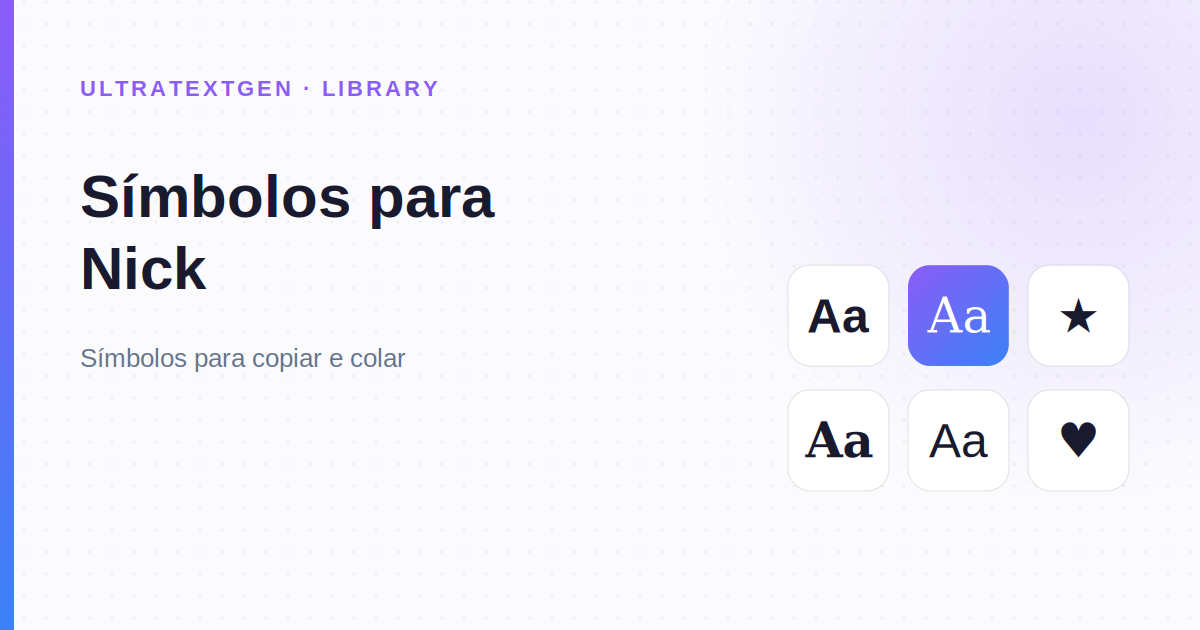
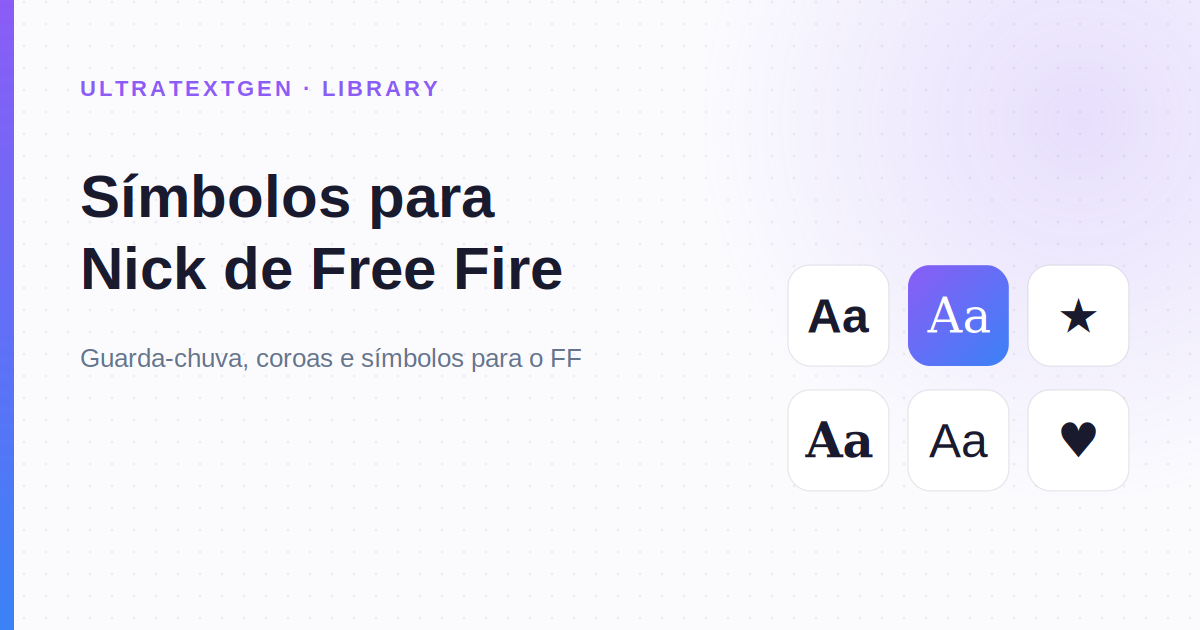
fix(pt): sharpen simbolos-para-nick's Free Fire targeting
pt/library/simbolos-para-nick/ is already the hreflang-registered PT
translation of library/free-fire-name-symbols (its symbol selection —
the guarda-chuva ꧁꧂ frame — is Free-Fire-flavored throughout), but its
title/H1 had been generalized to "Símbolos para Nick" (any game). Live
GSC data shows "simbolos ff" already landing on this page at ~position
9.6 with 0 clicks — the page is ranking but not converting on its own
best-matched query.

Sharpens title/meta/H1/JSON-LD to lead with Free Fire (embedding the
rendered ꧁꧂ ♛ ★ symbols in the title, per the site's own proven CTR-fix
pattern), while keeping the existing ML/Roblox/bio mentions as secondary
content rather than stripping them. Repoints the page's generator CTA
from the lower-traffic pt/usecase/nick-free-fire/ to the dominant
pt/usecase/nick-ff/ (1,765 impressions vs. near-zero).

No new URL — this is a retarget of the existing hreflang-registered page,
not a hub split into two pages, since a second PT page at this translation
slot would risk exactly the fragmentation CLAUDE.md's own cannibalization
rules warn against.

Claude-Session: https://claude.ai/code/session_01UhKAUX8aKnBNWZJwAnwFUo

Changed region(s): [[0.0617, 0.5429, 0.4933, 0.6032], [0.185, 0.3921, 0.4933, 0.4825]]

diff --git a/pt/library/simbolos-para-nick/index.html b/pt/library/simbolos-para-nick/index.html
@@ -13,8 +13,8 @@
 <meta charset="UTF-8">
 <meta name="viewport" content="width=device-width, initial-scale=1.0">
 
-<title>Símbolos para Nick: Copiar Símbolos para Free Fire e Jogos</title>
-<meta name="description" content="Símbolos para nick de FF e outros jogos, prontos para copiar e colar. Guarda-chuva ꧁꧂, coroas, katakana, estrelas, espadas e colchetes — clique para copiar. Grátis, sem app.">
+<title>Símbolos para Nick de Free Fire (FF): Copiar ꧁꧂ ♛ ★</title>
+<meta name="description" content="Símbolos para nick de Free Fire (FF) prontos para copiar e colar: guarda-chuva ꧁꧂, coroas ♛, katakana メ 彡 e estrelas ★. Também funcionam em ML, Roblox e bios — clique para copiar. Grátis, sem app.">
 
 <link rel="canonical" href="https://ultratextgen.com/pt/library/simbolos-para-nick/">
 <link rel="alternate" hreflang="en" href="https://ultratextgen.com/library/free-fire-name-symbols/">
@@ -26,10 +26,10 @@
 
 <meta name="twitter:card" content="summary_large_image">
 <meta name="twitter:image" content="https://ultratextgen.com/assets/og/pt-library-simbolos-para-nick.png">
-<meta name="twitter:title" content="Símbolos para Nick: Copiar Símbolos para Free Fire e Jogos">
-<meta name="twitter:description" content="Símbolos para nick de FF prontos para copiar e colar — guarda-chuva ꧁꧂, coroas, katakana, estrelas e espadas.">
-<meta property="og:title" content="Símbolos para Nick: Copiar Símbolos para Free Fire e Jogos">
-<meta property="og:description" content="Símbolos para nick de FF prontos para copiar e colar — guarda-chuva ꧁꧂, coroas, katakana, estrelas e espadas.">
+<meta name="twitter:title" content="Símbolos para Nick de Free Fire (FF): Copiar ꧁꧂ ♛ ★">
+<meta name="twitter:description" content="Símbolos para nick de Free Fire prontos para copiar e colar — guarda-chuva ꧁꧂, coroas, katakana, estrelas e espadas.">
+<meta property="og:title" content="Símbolos para Nick de Free Fire (FF): Copiar ꧁꧂ ♛ ★">
+<meta property="og:description" content="Símbolos para nick de Free Fire prontos para copiar e colar — guarda-chuva ꧁꧂, coroas, katakana, estrelas e espadas.">
 <meta property="og:type" content="article">
 <meta property="og:url" content="https://ultratextgen.com/pt/library/simbolos-para-nick/">
 <meta property="og:image" content="https://ultratextgen.com/assets/og/pt-library-simbolos-para-nick.png">
@@ -95,7 +95,7 @@
   "@type": "BreadcrumbList",
   "itemListElement": [
     { "@type": "ListItem", "position": 1, "name": "Início", "item": "https://ultratextgen.com/pt/" },
-    { "@type": "ListItem", "position": 2, "name": "Símbolos para Nick", "item": "https://ultratextgen.com/pt/library/simbolos-para-nick/" }
+    { "@type": "ListItem", "position": 2, "name": "Símbolos para Nick de Free Fire", "item": "https://ultratextgen.com/pt/library/simbolos-para-nick/" }
   ]
 }
 </script>
@@ -103,13 +103,13 @@
 {
   "@context": "https://schema.org",
   "@type": "WebApplication",
-  "name": "Símbolos para Nick",
-  "alternateName": ["Símbolos para Nick", "Símbolos para Nick FF", "Símbolos Free Fire", "Símbolos para Copiar"],
+  "name": "Símbolos para Nick de Free Fire",
+  "alternateName": ["Símbolos para Nick de Free Fire", "Símbolos para Nick FF", "Símbolos Free Fire", "Símbolos para Nick", "Símbolos para Copiar"],
   "url": "https://ultratextgen.com/pt/library/simbolos-para-nick/",
   "applicationCategory": "UtilityApplication",
   "operatingSystem": "All",
   "offers": { "@type": "Offer", "price": "0", "priceCurrency": "USD" },
-  "description": "Coleção de símbolos Unicode para nick de Free Fire e outros jogos — guarda-chuva, coroas, katakana, estrelas, espadas e colchetes, prontos para copiar e colar.",
+  "description": "Coleção de símbolos Unicode para nick de Free Fire — guarda-chuva, coroas, katakana, estrelas, espadas e colchetes, prontos para copiar e colar. Também funcionam em Mobile Legends, Roblox e bios.",
   "browserRequirements": "Requires JavaScript. Works in all modern browsers."
 }
 </script>
@@ -125,21 +125,21 @@
 <nav class="breadcrumbs" aria-label="Breadcrumb">
   <a href="/pt/">Início</a>
   <span class="breadcrumb-separator">›</span>
-  <span class="breadcrumb-current">Símbolos para Nick</span>
+  <span class="breadcrumb-current">Símbolos para Nick de Free Fire</span>
 </nav>
 
 <!-- HERO -->
 <section class="hero">
   <div class="hero-inner">
-    <h1 class="hero-headline">Símbolos para Nick</h1>
-    <p class="hero-tagline">Coleção de símbolos Unicode para o nick de Free Fire e outros jogos. Guarda-chuva ꧁꧂, coroas, katakana, estrelas e espadas — clique em qualquer símbolo para copiar na hora.</p>
+    <h1 class="hero-headline">Símbolos para Nick de Free Fire</h1>
+    <p class="hero-tagline">Guarda-chuva ꧁꧂, coroas, katakana, estrelas e espadas prontos para copiar e colar no nick do FF. Clique em qualquer símbolo para copiar na hora.</p>
   </div>
 </section>
 
 <!-- INTRO -->
 <section class="editorial-section">
   <div class="editorial-block">
-    <p>Símbolos para nick são caracteres Unicode usados para deixar o <strong>nome no jogo</strong> mais estiloso — no Free Fire, Mobile Legends, Roblox e também na bio e no nome de Instagram, TikTok, WhatsApp e Discord. Abaixo tem uma coleção de símbolos pronta para copiar e colar — guarda-chuva, coroas, katakana, estrelas, espadas e colchetes. Quer transformar as letras do nome em fonte estilosa também? Use o <a href="/pt/usecase/nick-free-fire/">gerador de nick de Free Fire</a> e emoldure com os símbolos daqui.</p>
+    <p>Símbolos para nick de Free Fire são caracteres Unicode usados para deixar o <strong>nome no jogo</strong> mais estiloso — o guarda-chuva ꧁꧂ é o mais clássico, mas tem coroa, katakana, estrela e espada também. Abaixo tem a coleção completa, pronta para copiar e colar. Os mesmos símbolos funcionam em Mobile Legends, Roblox e também na bio e no nome de Instagram, TikTok, WhatsApp e Discord. Quer transformar as letras do nome em fonte estilosa também? Use o <a href="/pt/usecase/nick-ff/">gerador de nick de Free Fire</a> e emoldure com os símbolos daqui.</p>
   </div>
 </section>
 
@@ -274,7 +274,7 @@
   <div class="cta-card">
     <h3>Faça um nick de Free Fire completo</h3>
     <p>Transforme seu nome em mais de 100 estilos Unicode — grátis e na hora. Combine com os símbolos daqui para um nick que se destaca.</p>
-    <a href="/pt/usecase/nick-free-fire/" class="cta-btn">Abrir o Gerador de Nick →</a>
+    <a href="/pt/usecase/nick-ff/" class="cta-btn">Abrir o Gerador de Nick →</a>
   </div>
 </section>
 
@@ -290,7 +290,7 @@
   </details>
   <details class="faq-item">
     <summary class="faq-question">Como usar os símbolos para nick de FF?</summary>
-    <p class="faq-answer">Clique em qualquer símbolo desta página para copiá-lo, depois cole no campo de nick do jogo — normalmente um no começo e outro no fim do nome. Para transformar as letras do nome em fonte estilosa, use o <a href="/pt/usecase/nick-free-fire/">gerador de nick</a> e emoldure com os símbolos daqui.</p>
+    <p class="faq-answer">Clique em qualquer símbolo desta página para copiá-lo, depois cole no campo de nick do jogo — normalmente um no começo e outro no fim do nome. Para transformar as letras do nome em fonte estilosa, use o <a href="/pt/usecase/nick-ff/">gerador de nick</a> e emoldure com os símbolos daqui.</p>
   </details>
   <details class="faq-item">
     <summary class="faq-question">Onde posso colar esses símbolos?</summary>
@@ -320,7 +320,7 @@
 <section class="editorial-section">
   <span class="article-section-label">Páginas Relacionadas</span>
   <div class="compare-grid">
-    <a href="/pt/usecase/nick-free-fire/" class="compare-card variant-muted u-no-underline">
+    <a href="/pt/usecase/nick-ff/" class="compare-card variant-muted u-no-underline">
       <h4>Nick Free Fire</h4>
       <p>Gerador de nick com fontes, símbolos e molduras prontas para o FF.</p>
     </a>

diff --git a/scripts/generate-site-art.py b/scripts/generate-site-art.py
@@ -1209,7 +1209,7 @@ PAGES = {
   # ---- localized game-nickname generators & symbol libraries (new markets) ----
   "pt-usecase-nick-free-fire": ("Nick Free Fire", "Gerador de nomes e símbolos para Free Fire", m_trophy, K_USE),
   "pt-espaco-invisivel": ("Espaço Invisível", "Caractere em branco para copiar", m_block, K_LIB),
-  "pt-library-simbolos-para-nick": ("Símbolos para Nick", "Símbolos para copiar e colar", m_grid, K_LIB),
+  "pt-library-simbolos-para-nick": ("Símbolos para Nick de Free Fire", "Guarda-chuva, coroas e símbolos para o FF", m_grid, K_LIB),
   "ro-nume-pentru-free-fire": ("Nume pentru Free Fire", "Generator de nick-uri și simboluri", m_trophy, K_USE),
   "ro-caractere-speciale": ("Caractere Speciale", "Simboluri de copiat pentru nume", m_grid, K_LIB),
   "hu-becenev-generator": ("Becenév Generátor", "Menő nevek és nickek játékokhoz", m_trophy, K_USE),
